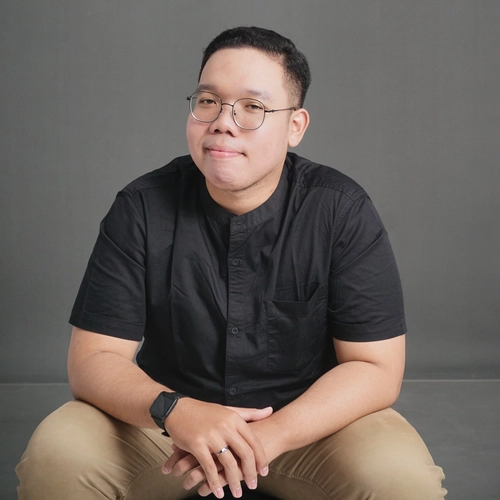
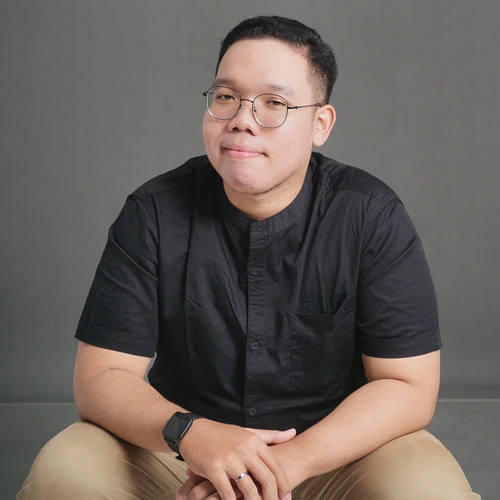
Updated author photo and filled hire me page

Changed region(s): [[0.03, 0.03, 0.96, 1.0], [0.66, 0.48, 0.69, 0.54], [0.57, 0.48, 0.6, 0.54]]

diff --git a/pages/hire/index.js b/pages/hire/index.js
@@ -4,9 +4,80 @@ import Layout from "components/layout";
 import Construction from "components/construction";
 
 export default () => {
+    const links = [
+        {
+            title: "Tech Stack",
+            link: "/#Tech Stack",
+        },
+        {
+            title: "Experience",
+            link: "/#Experience",
+        },
+        {
+            title: "Publication",
+            link: "/#Publication",
+        },
+        {
+            title: "Certification",
+            link: "/#Certification",
+        },
+        {
+            title: "Projects",
+            link: "/projects",
+        },
+    ];
+
+    const positions = ["Backend Developer", "Fullstack Web Developer", "API Developer", "Data Analyst", "A.I. Engineer"];
+
     return (
         <Layout highlight="hire_me">
-            <Construction title={"Hire Me"}></Construction>
+            <Head>
+                <title>Hire Me · Christopher Digno</title>
+            </Head>
+            <div className="container">
+                <div id="top-section">
+                    <div className="text-center">
+                        <div className="display-5">Hire Me!</div>
+                        <div className="fs-4">
+                            I will be a <span className="font-highlighted">good addition</span> to your <span id="hireme-spin"></span>!
+                        </div>
+                    </div>
+                </div>
+                <div className="mt-4">
+                    <div className="text-center">
+                        <div className="fs-4">If you are looking for...</div>
+                        <div className="d-flex justify-content-center flex-row flex-wrap">
+                            {positions.map((item) => (
+                                <div className="badge-list-item">{item}</div>
+                            ))}
+                        </div>
+                        <div className="fs-4 mt-4">
+                            <span className="font-highlighted">I can work with you!</span> Please don't hesitate to keep in touch by Email below!
+                        </div>
+                        <div>
+                            You might be interested to take a look at my
+                            {links.map((item, i, row) => (
+                                <span>
+                                    {" "}
+                                    {i + 1 === row.length ? "and " : ""}
+                                    <Link href={item.link} className="link-yellow">
+                                        {item.title}
+                                    </Link>
+                                    {i + 1 === row.length ? "" : ","}
+                                </span>
+                            ))}
+                        </div>
+                    </div>
+                </div>
+                <div className="mt-4 text-center display-3">
+                    <i class="bi bi-arrow-down-circle"></i>
+                </div>
+                <div className="mt-4 fs-5 text-center">
+                    <a href="mailto:digno.christopher@gmail.com" className="link-yellow">
+                        digno.christopher@gmail.com
+                    </a>
+                </div>
+            </div>
         </Layout>
     );
 };

diff --git a/pages/index.js b/pages/index.js
@@ -4,9 +4,12 @@ import Link from "next/link";
 
 function createMainSectionHeading(title) {
     return (
-        <div className="col-12 col-lg-4 mb-3 mb-xl-0">
-            <span className="font-heading font-highlighted display-4">{title}</span>
-        </div>
+        <>
+            <a id={title} className="page-anchor"></a>
+            <div className="col-12 col-lg-4 mb-3 mb-xl-0" id={title}>
+                <span className="font-heading font-highlighted display-4">{title}</span>
+            </div>
+        </>
     );
 }
 
@@ -197,7 +200,6 @@ export default () => {
                         </div>
                         <hr className="d-block d-xl-none" />
                     </div>
-
                     <div id="main-section">
                         <div className="row mt-section">
                             {createMainSectionHeading("About")}
@@ -324,18 +326,6 @@ export default () => {
                                     </div>
                                 ))}
                             </div>
-                        </div>
-                    </div>
-
-                    <div className="text-center mt-section">
-                        <div className="display-4">
-                            <div className="mb-2">
-                                <span className="font-highlighted">Heads up!</span>
-                            </div>
-                            <div>
-                                <i class="bi bi-cone-striped"></i>
-                            </div>
-                            <div className="fs-3">This website is still under construction</div>
                         </div>
                     </div>
                 </div>

diff --git a/styles/app.scss b/styles/app.scss
@@ -396,6 +396,35 @@ footer {
     }
 }
 
+// Scrollable page anchor hack
+.page-anchor {
+    display: block;
+    position: relative;
+    top: -8rem;
+    visibility: hidden;
+}
+
+// Hire Me decorative text spin
+#hireme-spin {
+    &:after {
+        content: "";
+        animation: spin 3s linear infinite;
+    }
+}
+
+@keyframes spin {
+    0%,
+    100% {
+        content: "company";
+    }
+    33% {
+        content: "team";
+    }
+    66% {
+        content: "project";
+    }
+}
+
 //================================================================================
 // !SECTION Component-specific
 //================================================================================

diff --git a/pages/projects/index.js b/pages/projects/index.js
@@ -70,7 +70,7 @@ export default () => {
                     href: "https://github.com/stackofsugar/stackofsugar.github.io",
                 },
             ],
-            tags: ["React.js", "Bootstrap CSS"],
+            tags: ["React.js", "Bootstrap CSS", "GitHub Pages"],
         },
 
         {
